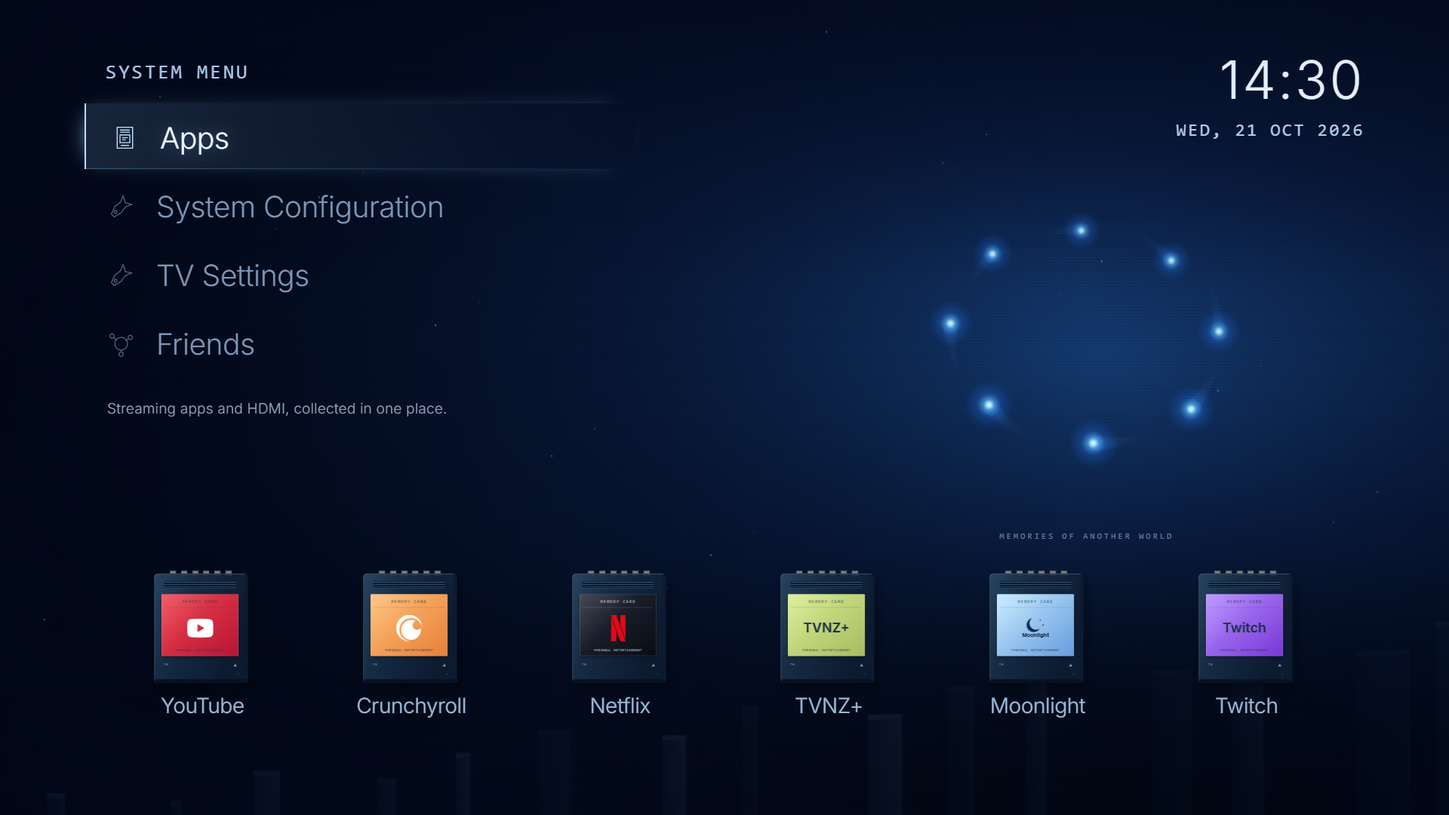
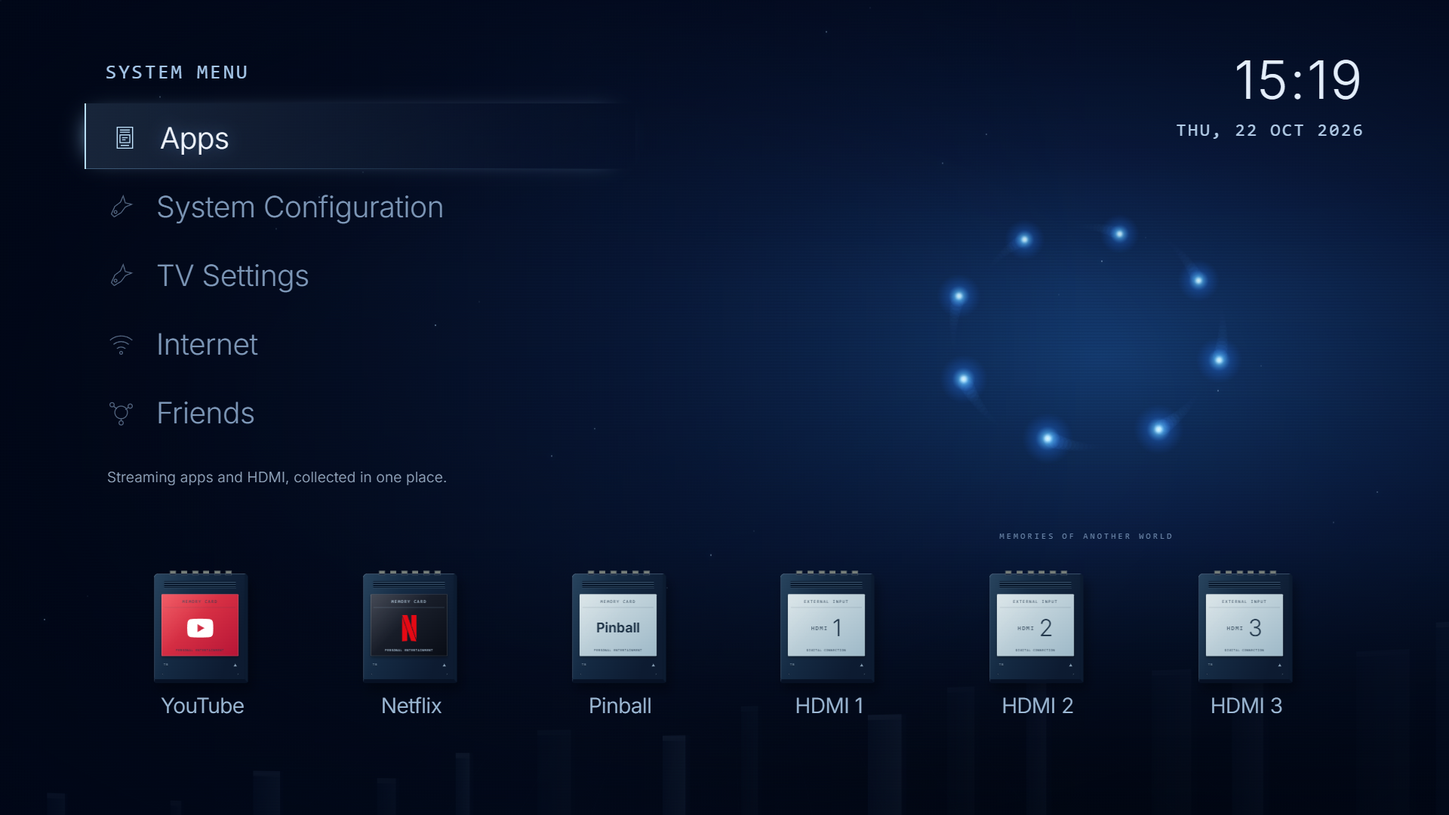
Add Internet settings and publish sanitised TB 0.1.1
Compared with the original public 0.1.0 showcase submission (2202c50):
- Add a remote-navigable Internet page for connection type, network name,
  IP, gateway, subnet mask and DNS, with separate internet reachability.
- Add Refresh, foreground refresh, stale-data clearing and a native LG
  General > Network shortcut with an All Settings fallback.
- Keep the fixed read-only Homebrew fallback behind the existing opt-in;
  no root access occurs from this page by default.
- Add synthetic network tests, a neutral Internet screenshot and a
  changelog identifying what is new versus already present in 0.1.0.

Preserve the separate public app identity, neutral media, startup audio
off by default and empty per-user settings. Exclude real network/account
details, credentials, owner artwork/recordings, TV setup exports and
root/debloat or device-specific startup scripts.

Validation: npm test, build and packaging; 18 isolated browser checks;
known-private-data/credential scan of 91 repository files plus build/IPK
contents (123 file payloads total), with no findings. The matching
personal implementation is TV-tested; this public identity remains
PC-tested only.

diff --git a/src/screens/RetroHome.tsx b/src/screens/RetroHome.tsx
@@ -14,18 +14,19 @@ import wallpaper from '../assets/wallpaper.svg';
 import {GbaBootScene} from '../components/GbaBootScene';
 import {STARTUP_DURATION,startupGreeting} from '../lib/startup';
 import {PictureSettings} from './PictureSettings';
+import {NetworkSettings} from './NetworkSettings';
 import {readLaunchIntent} from '../lib/launch-intent';
 import {type PictureContext} from '../lib/picture';
 import {launchApp} from '../lib/launch';
 
 interface Props {rows:HomeRow[]; collections:SettingsTab[]; loading:boolean; onRefreshApps:()=>Promise<void>; discovery:boolean; onDiscovery:()=>void; onActivate:(row:string,item:TileModel)=>Promise<void>; onToggle:(tab:string,id:string)=>void; onReorder:(tab:string,ids:string[])=>void;}
-type Page='menu'|'browser'|'config'|'friends'|'collection'|'picture';
+type Page='menu'|'browser'|'config'|'friends'|'collection'|'picture'|'network';
 type Form='wallpaper'|'steam'|null;
 type Entry={row:string;item:TileModel};
-const MENUS=['Apps','System Configuration','TV Settings','Friends'];
-const PAGES:Page[]=['browser','config','picture','friends'];
+const MENUS=['Apps','System Configuration','TV Settings','Internet','Friends'];
+const PAGES:Page[]=['browser','config','picture','network','friends'];
 const BACKGROUNDS:RetroPreferences['background'][]=['frieren','blue','custom'];
-const BACKGROUND_NAMES={frieren:'Frieren · dusk',blue:'Classic blue',custom:'Custom image'};
+const BACKGROUND_NAMES={frieren:'Blue horizon',blue:'Classic blue',custom:'Custom image'};
 const pad=(n:number)=>String(n).padStart(2,'0');
 const SETTINGS=[
   ['Background','Choose your atmosphere','The bundled blue horizon, the classic blue void, or an image of your own.'],
@@ -197,7 +198,7 @@ export function Home ({rows,collections,loading,onRefreshApps,discovery,onDiscov
   handler.current=(event:KeyboardEvent)=>{
     const code=event.keyCode;
     if(idle){touch();event.preventDefault();event.stopImmediatePropagation();return;}
-    if(page==='picture')return;
+    if(page==='picture'||page==='network')return;
     if(![13,27,37,38,39,40,461].includes(code))return;
     touch();
     if(page==='collection')return;
@@ -254,7 +255,7 @@ export function Home ({rows,collections,loading,onRefreshApps,discovery,onDiscov
   useEffect(()=>{const key=(event:KeyboardEvent)=>handler.current(event);addEventListener('keydown',key,true);return()=>removeEventListener('keydown',key,true);},[]);
 
   const values=[BACKGROUND_NAMES[prefs.background],`${prefs.fade}%`,prefs.scanlines?'On':'Off',prefs.sound?'On':'Off',prefs.boot?'On':'Off',prefs.startupSound?(prefs.startupVoice==='gba'?'Game Boy Advance':'PlayStation 2'):'Off',`${prefs.startupVolume}%`,prefs.idle?'After 2 minutes':'Off',prefs.wallpaper?'Change image':'Add image address','Choose & arrange',prefs.steamUrl?'Relay configured':'Not connected','Open original menu'];
-  const menuDescription=['Streaming apps and HDMI, collected in one place.','Set the atmosphere. Make yourself at home.','Brightness, contrast and colour, saved to your TV.','See who’s online before the next adventure.'];
+  const menuDescription=['Streaming apps and HDMI, collected in one place.','Set the atmosphere. Make yourself at home.','Brightness, contrast and colour, saved to your TV.','Your IP address, connection details and Wi-Fi setup.','See who’s online before the next adventure.'];
   const orbitActive=visible&&!idle&&!booting&&!guide&&!form&&!launching?.error;
   const title=(eyebrow:string,label:string)=><div class="ps-page-heading"><div><span class="ps-sr-only">{eyebrow}</span><h1>{label}</h1></div></div>;
 
@@ -263,7 +264,7 @@ export function Home ({rows,collections,loading,onRefreshApps,discovery,onDiscov
       <Atmosphere image={image} fade={prefs.fade} imageFailed={imageFailed}/>
       <header class="ps-header ps-interface" aria-hidden={idle||!!form||guide||!!launching?.error} {...(idle||!!form||guide||!!launching?.error?{inert:true}:{})}><div class="ps-clock"><strong>{clock}</strong><span>{date}</span></div></header>
       <div class="ps-interface ps-page-shell" key={page} aria-hidden={idle||!!form||guide||!!launching?.error} {...(idle||!!form||guide||!!launching?.error?{inert:true}:{})}>
-        {page==='menu'?<section class="ps-main ps-page-enter"><div class="ps-menu-panel"><span class="ps-eyebrow">SYSTEM MENU</span><h1 class="ps-sr-only">Main menu</h1><nav aria-label="Main menu"><div class={`ps-menu-focus ${menuZone==='quick'?'is-muted':''}`} style={{transform:`translateY(${menu*91}px)`}}/>{MENUS.map((label,index)=><button class={`ps-menu-item ${menu===index&&menuZone==='main'?'is-focused':''}`} aria-current={menu===index&&menuZone==='main'?'page':undefined} onMouseMove={()=>{setMenu(index);setMenuZone('main');}} onClick={()=>{setMenu(index);setMenuZone('main');enter(PAGES[index]);}}><MenuSymbol name={(['browser','config','config','friends'] as const)[index]}/><span>{label}</span></button>)}</nav><p key={menu} class="ps-menu-detail">{menuDescription[menu]}</p></div>
+        {page==='menu'?<section class="ps-main ps-page-enter"><div class="ps-menu-panel"><span class="ps-eyebrow">SYSTEM MENU</span><h1 class="ps-sr-only">Main menu</h1><nav aria-label="Main menu"><div class={`ps-menu-focus ${menuZone==='quick'?'is-muted':''}`} style={{transform:`translateY(${menu*91}px)`}}/>{MENUS.map((label,index)=><button class={`ps-menu-item ${menu===index&&menuZone==='main'?'is-focused':''}`} aria-current={menu===index&&menuZone==='main'?'page':undefined} onMouseMove={()=>{setMenu(index);setMenuZone('main');}} onClick={()=>{setMenu(index);setMenuZone('main');enter(PAGES[index]);}}><MenuSymbol name={(['browser','config','config','network','friends'] as const)[index]}/><span>{label}</span></button>)}</nav><p key={menu} class="ps-menu-detail">{menuDescription[menu]}</p></div>
           <div class="ps-menu-orbit"><CrystalOrbit angle={crystalAngle} large active={orbitActive}/><span>MEMORIES OF ANOTHER WORLD</span></div>
           <div class="ps-quick"><div class="ps-quick-row">{quickItems.map((entry,i)=><button key={entry.item.key} class={`ps-quick-item ${menuZone==='quick'&&quick===i?'is-focused':''} ${launching?.entry.item.key===entry.item.key?'is-opening':''}`} aria-label={`Open ${entry.item.label}`} onMouseMove={()=>{setMenuZone('quick');setQuick(i);}} onClick={()=>{setQuick(i);setMenuZone('quick');void launch(entry);}}><div class="ps-quick-card"><MemoryCard item={entry.item} input={entry.row==='sources'} mini/></div><span>{entry.item.label}</span></button>)}</div>{!quickItems.length&&<p class="ps-quick-empty">{loading?'Reading your applications…':'Add apps or HDMI inputs in System Configuration, under Apps & inputs.'}</p>}</div>
         </section>:page==='browser'?<section class="ps-content ps-page-enter">{title('SYSTEM / APPS','Apps')}<div class="ps-filter-rail" role="tablist" aria-label="Apps collection">{['All items','Applications','HDMI inputs'].map((label,i)=><button role="tab" aria-selected={filter===i} class={`${filter===i?'is-active':''} ${browserZone==='tabs'&&tabFocus===i?'is-focused':''}`} onMouseMove={()=>{setBrowserZone('tabs');setTabFocus(i);}} onClick={()=>filterTo(i)}>{label}<small>{i===0?allItems.length:allItems.filter(e=>e.row===(i===1?'apps':'sources')).length}</small></button>)}</div>
@@ -271,7 +272,7 @@ export function Home ({rows,collections,loading,onRefreshApps,discovery,onDiscov
           <div class="ps-memory-grid" aria-label="Apps and HDMI inputs">{items.slice(start,start+8).map((entry,i)=>{const index=start+i;return <button key={entry.item.key} class={`ps-memory-item ${card===index&&browserZone==='cards'?'is-focused':''} ${launching?.entry.item.key===entry.item.key?'is-opening':''}`} aria-label={entry.item.label} aria-current={card===index&&browserZone==='cards'?'true':undefined} onMouseMove={()=>{setCard(index);setBrowserZone('cards');}} onClick={()=>{setCard(index);setBrowserZone('cards');void launch(entry);}}><div class="ps-card-platform"/><MemoryCard item={entry.item} input={entry.row==='sources'}/><span class="ps-card-title">{entry.item.label}</span><small class="ps-card-index">{entry.row==='sources'?(entry.item.connected?'DEVICE CONNECTED':'NO DEVICE DETECTED'):''}</small></button>;})}</div>
           {!items.length&&<div class="ps-empty-browser"><MenuSymbol name="browser"/><h2>{loading?'Reading your collection…':'A little room for something new.'}</h2><p>Add apps and inputs in System Configuration.</p><button class="ps-action is-focused" onClick={()=>enter('collection')}>Manage collection</button></div>}{items.length>8&&<div class="ps-pagination">COLLECTION {Math.floor(card/8)+1} / {Math.ceil(items.length/8)}</div>}
         </section>:page==='config'?<section class="ps-content ps-page-enter">{title('SYSTEM / PREFERENCES','System Configuration')}<div class="ps-settings-panel"><div class="ps-settings-list">{SETTINGS.map(([label],i)=><button class={`ps-setting ${setting===i?'is-focused':''}`} aria-label={`${label}: ${values[i]}`} onMouseMove={()=>setSetting(i)} onClick={()=>{setSetting(i);configure(i);}}><span>{label}</span><b>{values[i]}</b></button>)}</div><aside class="ps-setting-detail" key={setting}><span class="ps-eyebrow">{setting<3?'APPEARANCE':setting<8?'EXPERIENCE':'SYSTEM'}</span><h2>{SETTINGS[setting][1]}</h2><p>{SETTINGS[setting][2]}</p>{setting===1?<div class="ps-fade-meter"><input type="range" min="0" max="85" step="5" value={prefs.fade} aria-label="Image fade" onClick={event=>event.stopPropagation()} onInput={event=>{touch();update({fade:Number(event.currentTarget.value)});}}/><span>{prefs.fade}% FADE</span></div>:setting===6?<div class="ps-fade-meter"><input type="range" min="0" max="100" step="5" value={prefs.startupVolume} aria-label="Startup volume" onClick={event=>event.stopPropagation()} onInput={event=>{touch();update({startupVolume:Number(event.currentTarget.value)});}}/><span>{prefs.startupVolume}%</span></div>:setting===0||setting===8?<div class={`ps-theme-preview ${prefs.background==='blue'?'is-blue':''}`} style={image&&!imageFailed?{backgroundImage:`linear-gradient(90deg,#05112c88,#05112c44),url(${JSON.stringify(image)})`}:undefined}><CrystalOrbit active={orbitActive}/><span>{BACKGROUND_NAMES[prefs.background]}</span></div>:<div class="ps-setting-symbol"><MenuSymbol name={setting===10?'friends':setting===11?'home':'config'}/></div>}{imageFailed&&(setting===0||setting===8)&&<p class="ps-error-text">Image unavailable. Classic blue is shown until it loads.</p>}</aside></div></section>
-        :page==='picture'?<PictureSettings context={pictureContext} onBack={returnFromPicture} onActivity={touch}/>:page==='collection'?<CollectionEditor discovery={discovery} onDiscovery={onDiscovery} tabs={collections} sound={prefs.sound} loading={loading} onRefresh={onRefreshApps} onToggle={onToggle} onReorder={onReorder} onClose={()=>setPage(collectionReturn)}/>
+        :page==='network'?<NetworkSettings allowHomebrew={discovery} onBack={()=>{touch();setPage('menu');setMenuZone('main');}} onActivity={touch}/>:page==='picture'?<PictureSettings context={pictureContext} onBack={returnFromPicture} onActivity={touch}/>:page==='collection'?<CollectionEditor discovery={discovery} onDiscovery={onDiscovery} tabs={collections} sound={prefs.sound} loading={loading} onRefresh={onRefreshApps} onToggle={onToggle} onReorder={onReorder} onClose={()=>setPage(collectionReturn)}/>
         :<section class="ps-content ps-page-enter">{title('SYSTEM / FRIENDS','Friends')}{!prefs.steamUrl?<div class="ps-friends-empty"><div class="ps-friends-orbit"><CrystalOrbit active={orbitActive}/></div><div><span class="ps-eyebrow">STEAM / NOT CONNECTED</span><h2>A good adventure.<br/>Even better company.</h2><p>See who’s online and what they’re playing.<br/>Connect the optional PC relay to get started.</p><button class="ps-action is-focused" onClick={()=>openForm('steam')}>Connect Steam</button><small>ACCOUNT SETUP IS STILL NEEDED</small></div></div>:<><div class="ps-friends-toolbar"><div><span><i class={steamState?'is-stale':''}/>{snapshot?`${snapshot.profile} · ${online.length} online`:'Steam relay'}</span><small role="status">{steamState||(snapshot?`Updated ${new Date(snapshot.updatedAt).toLocaleTimeString([],{hour:'2-digit',minute:'2-digit'})} · refreshes every minute`:'Connecting…')}</small></div><button onClick={()=>setRefresh(old=>old+1)}>Refresh</button><button class="ps-action" onClick={()=>openForm('steam')}>Connection settings</button></div><div class="ps-friends-grid">{snapshot?.friends.slice(friendPage*6,friendPage*6+6).map(friend=><article key={friend.id} class={`ps-friend ${friend.state!=='Offline'?'is-online':''}`}><div class="ps-friend-avatar">{friend.name.charAt(0).toUpperCase()}</div><div><h2>{friend.name}</h2><p>{friend.game||friend.state}</p></div><i/></article>)}</div>{!snapshot&&<p class="ps-empty">{steamState||'Connecting…'}</p>}{snapshot&&!snapshot.friends.length&&<p class="ps-empty">No friends returned. Check your Steam friends-list privacy settings.</p>}{snapshot&&snapshot.friends.length>6&&<div class="ps-friend-pages"><button onClick={()=>setFriendPage(old=>Math.max(0,old-1))}>Previous</button><span>{friendPage+1} / {Math.ceil(snapshot.friends.length/6)}</span><button onClick={()=>setFriendPage(old=>Math.min(Math.ceil(snapshot.friends.length/6)-1,old+1))}>Next</button></div>}</>}</section>}
       </div>
       {idle&&<div class="ps-idle-view"><div class="ps-idle-shade" aria-hidden="true"/><div class="ps-idle-lights"><CrystalOrbit angle={crystalAngle} ambient active={visible&&idle}/></div><div class="ps-idle-caption"><div class="ps-idle-caption-drift"><strong>{clock}</strong><small>PRESS ANY BUTTON TO WAKE</small></div></div></div>}

diff --git a/src/screens/NetworkSettings.tsx b/src/screens/NetworkSettings.tsx
@@ -1,0 +1,24 @@
+import {useEffect,useRef,useState} from 'preact/hooks';
+import {readNetwork,openNetworkSettings,type NetworkSnapshot} from '../lib/network';
+import {isWebOS} from '../lib/luna';
+
+interface Props{allowHomebrew:boolean;onBack:()=>void;onActivity:()=>void;}
+export function NetworkSettings({allowHomebrew,onBack,onActivity}:Props){
+  const [snapshot,setSnapshot]=useState<NetworkSnapshot|null>(null),[loading,setLoading]=useState(true),[opening,setOpening]=useState(false),[error,setError]=useState(''),[focus,setFocus]=useState(0);
+  const alive=useRef(true),pending=useRef(false),launching=useRef(false),keys=useRef<(e:KeyboardEvent)=>void>(()=>undefined);
+  const load=async()=>{if(pending.current||!alive.current)return;pending.current=true;setLoading(true);setError('');try{const next=await readNetwork(allowHomebrew);if(alive.current)setSnapshot(next);}catch(e){if(alive.current){setSnapshot(null);setError(e instanceof Error?e.message:'Could not read the connection.');}}finally{pending.current=false;if(alive.current)setLoading(false);}};
+  useEffect(()=>{alive.current=true;void load();const visible=()=>{if(!document.hidden)void load();};const timer=window.setInterval(visible,30000);document.addEventListener('visibilitychange',visible);window.addEventListener('focus',visible);return()=>{alive.current=false;clearInterval(timer);document.removeEventListener('visibilitychange',visible);window.removeEventListener('focus',visible);};},[allowHomebrew]);
+  const open=async()=>{onActivity();if(launching.current)return;if(!isWebOS()){setError('Wi-Fi setup opens on the TV. This PC preview shows sample connection details.');return;}launching.current=true;setOpening(true);setError('');try{await openNetworkSettings();}catch{if(alive.current)setError('Could not open LG network settings. Try again.');}finally{launching.current=false;if(alive.current)setOpening(false);}};
+  keys.current=e=>{if(![13,27,37,38,39,40,461].includes(e.keyCode))return;e.preventDefault();e.stopImmediatePropagation();onActivity();if(e.keyCode===27||e.keyCode===461){onBack();return;}if(e.keyCode===37||e.keyCode===38)setFocus(0);else if(e.keyCode===39||e.keyCode===40)setFocus(1);else if(e.keyCode===13&&!e.repeat){if(focus===0)void open();else void load();}};
+  useEffect(()=>{const handle=(e:KeyboardEvent)=>keys.current(e);addEventListener('keydown',handle);return()=>removeEventListener('keydown',handle);},[]);
+  const details=[['Connection',snapshot?.kind],['Network',snapshot?.name],['TV IP address',snapshot?.ip],['Gateway',snapshot?.gateway],['Subnet mask',snapshot?.netmask],['DNS',snapshot?.dns]];
+  return <section class="ps-content ps-page-enter ps-network-page">
+    <div class="ps-page-heading"><h1>Internet</h1></div>
+    <div class="ps-network-panel" aria-busy={loading||opening}>
+      <div class="ps-network-main"><div class="ps-network-status"><i class={snapshot?.internet==='Connected'?'is-online':''}/><span>{loading?'Checking connection…':snapshot?.internet==='Connected'?'Connected to the internet':snapshot?.internet==='No internet'?'No internet connection':snapshot?'Internet status unknown':'Connection unavailable'}</span></div>
+        <dl>{details.map(([label,value])=><div class={label==='TV IP address'?'is-address':''}><dt>{label}</dt><dd>{loading&&!snapshot?'…':value||'—'}</dd></div>)}</dl>
+        <div class="ps-network-actions"><button class={`ps-action ${focus===0?'is-focused':''}`} disabled={opening} onMouseMove={()=>setFocus(0)} onClick={()=>void open()}>Wi-Fi & network settings</button><button class={`ps-action ${focus===1?'is-focused':''}`} disabled={loading} onMouseMove={()=>setFocus(1)} onClick={()=>{onActivity();void load();}}>Refresh</button></div>
+      </div><aside class="ps-network-detail"><span class="ps-eyebrow">YOUR CONNECTION</span><h2>Stay connected.</h2><p>Choose a Wi-Fi network, enter its password or change connection settings in LG’s network menu.</p><p>Your TV’s current address appears here and refreshes when you return.</p>{!isWebOS()&&<p class="ps-network-preview">PC preview · sample details</p>}<p class="ps-network-error" role="status">{error}</p></aside>
+    </div>
+  </section>;
+}

diff --git a/src/lib/network.ts b/src/lib/network.ts
@@ -1,0 +1,29 @@
+import {isWebOS,lunaCall,type LunaResponse} from './luna';
+import {LUNA} from '../config/constants';
+import {launchApp} from './launch';
+
+interface Connection {state?:string;ipAddress?:string;ssid?:string;gateway?:string;netmask?:string;dns1?:string;dns2?:string;onInternet?:string;}
+interface Status extends LunaResponse {isInternetConnectionAvailable?:boolean;wifi?:Connection;wired?:Connection;}
+export interface NetworkSnapshot {kind:'Wi-Fi'|'Ethernet'|'Disconnected';name:string;ip:string;gateway:string;netmask:string;dns:string;internet:'Connected'|'No internet'|'Unknown';}
+const connected=(c?:Connection)=>!!c&&['connected','online','ready'].includes(c.state||'');
+export function networkSnapshot(status:Status):NetworkSnapshot {
+  if(!status||status.returnValue!==true||(!status.wifi&&!status.wired))throw Error('The TV did not return connection details.');
+  const wired=connected(status.wired),wifi=connected(status.wifi),connection=wired?status.wired:wifi?status.wifi:undefined;
+  return {kind:wired?'Ethernet':wifi?'Wi-Fi':'Disconnected',name:wired?'Wired connection':wifi?(status.wifi?.ssid||'Wireless network'):'No network connected',ip:connection?.ipAddress||'Not assigned',gateway:connection?.gateway||'—',netmask:connection?.netmask||'—',dns:[connection?.dns1,connection?.dns2].filter(Boolean).join(' · ')||'—',internet:!connection?'No internet':status.isInternetConnectionAvailable===true?'Connected':status.isInternetConnectionAvailable===false?'No internet':'Unknown'};
+}
+export async function readNetwork(allowHomebrew=false):Promise<NetworkSnapshot>{
+  if(!isWebOS())return networkSnapshot({returnValue:true,isInternetConnectionAvailable:true,wifi:{state:'connected',ssid:'Home Wi-Fi (preview)',ipAddress:'192.0.2.20',gateway:'192.0.2.1',netmask:'255.255.255.0',dns1:'192.0.2.1'}});
+  try{return networkSnapshot(await lunaCall<Status>('luna://com.webos.service.connectionmanager/getStatus',{}));}
+  catch{
+    if(!allowHomebrew)throw Error('Connection details are unavailable. Open Wi-Fi & network settings, or enable Homebrew in Apps & inputs on a rooted TV.');
+    // Fixed read-only command: no network names, passwords or user values enter a shell.
+    try{const result=await lunaCall<LunaResponse&{stdoutString?:string}>(LUNA.homebrewExec,{command:"luna-send -n 1 -w 5000 luna://com.webos.service.connectionmanager/getStatus '{}'"},8000);return networkSnapshot(JSON.parse(result.stdoutString||''));}
+    catch{throw Error('Connection details are unavailable. Try Refresh or open Wi-Fi & network settings.');}
+  }
+}
+/** Route checked on an LG C2 running webOS 24; other firmware may differ. LG handles network selection and passwords. */
+export async function openNetworkSettings():Promise<void>{
+  if(!isWebOS())return;
+  try{await launchApp('com.palm.app.settings',{target:'general',item:'network'});}
+  catch{await launchApp('com.palm.app.settings');}
+}

diff --git a/src/theme/network.css b/src/theme/network.css
@@ -1,0 +1,12 @@
+.ps-network-panel{display:flex;min-height:590px;background:linear-gradient(120deg,#11294588,#071429aa);border:1px solid #759bb94d;}
+.ps-network-main{width:1070px;flex-shrink:0;padding:32px 38px;box-sizing:border-box;}
+.ps-network-status{display:flex;align-items:center;gap:15px;font-size:27px;color:#c7d9e9;margin-bottom:26px;}
+.ps-network-status>i{width:10px;height:10px;flex-shrink:0;border-radius:50%;background:#9c967d;}
+.ps-network-status>i.is-online{background:#a2dbbd;box-shadow:0 0 16px #8ce6b344;}
+.ps-network-main dl{margin:0 0 26px;}.ps-network-main dl>div{display:flex;align-items:center;min-height:58px;border-bottom:1px solid #7093b22b;gap:25px;}
+.ps-network-main dt{width:240px;flex-shrink:0;font-size:25px;color:#9fb7d1;}
+.ps-network-main dd{margin:0;font-size:29px;color:#e1efff;overflow-wrap:anywhere;min-width:0;line-height:1.35;}
+.ps-network-main .is-address{min-height:78px;}.ps-network-main .is-address dd{font-size:43px;letter-spacing:1px;font-variant-numeric:tabular-nums;}
+.ps-network-actions{display:flex;align-items:center;gap:23px;}.ps-network-actions>button{font-size:26px!important;white-space:nowrap;}.ps-network-actions>button:disabled{opacity:.45;}
+.ps-network-detail{padding:36px 38px;border-left:1px solid #7292b04d;min-width:0;flex:1;}.ps-network-detail h2{font-size:36px;font-weight:300;line-height:1.3;margin:25px 0;}.ps-network-detail p{font-size:24px;line-height:1.6;color:#9db7d2;margin:0 0 23px;}
+.ps-network-detail .ps-network-error{color:#edb9ac;font-size:22px;}.ps-network-detail .ps-network-preview{font-size:20px;color:#9db7d2;}

diff --git a/src/components/MemoryCard.tsx b/src/components/MemoryCard.tsx
@@ -11,10 +11,11 @@ const LABELS: Record<string, string> = {
   'tv.twitch.tv.starshot.lg': 'linear-gradient(140deg,#b58aff,#7739d7)'
 };
 
-export function MenuSymbol ({name}: {name: 'browser' | 'config' | 'friends' | 'home'}) {
+export function MenuSymbol ({name}: {name: 'browser' | 'config' | 'friends' | 'home' | 'network'}) {
   return <svg class="ps-symbol" viewBox="0 0 40 40" fill="none" stroke="currentColor" stroke-width="1.4" aria-hidden="true">
     {name === 'browser' ? <><path d="M9 5h22v30H9zM13 9h14M13 12h14M13 16h14v11H13zM14 31h12"/><path d="M16 20h8M16 23h5"/></>
       : name === 'config' ? <><path d="m23 5-4 9-8 6-5 11 4 4 10-6 6-8 9-4-9-2z"/><circle cx="12" cy="28" r="2"/></>
+      : name === 'network' ? <><path d="M4 15a24 24 0 0 1 32 0M9 21a17 17 0 0 1 22 0M14 27a9 9 0 0 1 12 0"/><circle cx="20" cy="33" r="2"/></>
       : name === 'friends' ? <><circle cx="20" cy="20" r="9"/><circle cx="7" cy="9" r="3"/><circle cx="33" cy="11" r="3"/><circle cx="20" cy="35" r="3"/><path d="m9 11 5 4m16-2-4 3m-6 13v3"/></>
       : <path d="m5 18 15-12 15 12M10 16v18h20V16M17 34V23h6v11"/>}
   </svg>;

diff --git a/src/main.tsx b/src/main.tsx
@@ -3,6 +3,7 @@ import {App} from './app';
 import {applyTokens} from './theme/tokens';
 import './theme/global.css';
 import './theme/retro.css';
+import './theme/network.css';
 
 applyTokens();
 render(<App />, document.getElementById('root')!);

diff --git a/README.md b/README.md
@@ -16,11 +16,12 @@ Inspired by [Gathin's TV project and @gathint's post](https://github.com/Gathin2
 - A handheld-style morning/afternoon/evening greeting or a tower-and-cloud startup. The rest of the home stays the same when switching startup styles.
 - Independent menu and startup audio settings. **Console recordings are not included; startup audio defaults off.**
 - Optional installed-app discovery and TV picture controls through an existing rooted Homebrew Channel installation.
+- An Internet page with connection status, IP/gateway/DNS and a shortcut to LG's native Wi-Fi/network settings. Network passwords stay in LG's interface.
 - Optional Steam friends through a separately run, authenticated PC relay. No Steam credentials ship in the app.
 
 ## Compatibility and test status
 
-Developed on an **LG OLED48C24LA**, firmware **23.25.55**, **webOS24 / SDK9.2.2**. The personal predecessor was installed and exercised on that TV, including remote navigation, apps/HDMI, Pinball discovery, picture settings and the idle view. This public **0.1.0** copy has a new app ID, neutral media and an explicit discovery switch. It is PC-build/browser tested and **has not yet been installed on the TV**. Other TVs and firmware are unverified.
+Developed on an **LG OLED48C24LA**, firmware **23.25.55**, **webOS24 / SDK9.2.2**. The personal implementation was installed and exercised on that TV, including remote navigation, apps/HDMI, Pinball discovery, picture settings, the idle view and the new live connection page/native Settings shortcut. This public **0.1.1** copy has a separate app ID, neutral media and explicit Homebrew opt-in. It is PC-build/browser tested and **has not yet been installed on the TV**. Other TVs and firmware are unverified. See [what changed since the original showcase submission](CHANGELOG.md).
 
 The bundle targets Chrome79 as a compatibility baseline and uses a classic script for webOS file loading. That does not establish support for every older webOS TV.
 
@@ -35,14 +36,14 @@ npm run build
 npm run package
 ```
 
-The resulting package is `build/com.tb.weboslauncher_0.1.0_all.ipk`. Packaging is separate from installation and does not contact any TV. `npm run dev` previews the app on the PC with mock apps/inputs; picture controls use mock values there.
+The resulting package is `build/com.tb.weboslauncher_0.1.1_all.ipk`. Packaging is separate from installation and does not contact any TV. `npm run dev` previews the app on the PC with mock apps/inputs; picture and Internet controls use sample values there.
 
 ## Install and navigation
 
 Install the built IPK with [webOS Dev Manager](https://github.com/webosbrew/dev-manager-desktop) or LG's CLI and your own paired device profile:
 
 ```sh
-npx ares-install --device YOUR_TV build/com.tb.weboslauncher_0.1.0_all.ipk
+npx ares-install --device YOUR_TV build/com.tb.weboslauncher_0.1.1_all.ipk
 npx ares-launch --device YOUR_TV com.tb.weboslauncher
 ```
 
@@ -57,6 +58,16 @@ The app does **not** automatically replace Home, remap Settings, install root, c
 In Apps & inputs, **Homebrew: Off/On** opts into live installed-app discovery. Enable it only on your own rooted TV with Homebrew Channel. It runs fixed `listLaunchPoints` and validated icon-read commands through that service, retains known artwork and falls back to the catalogue when unavailable. App installation/uninstallation stays outside TB. New discoveries remain hidden until selected. Returning to TB, opening the chooser or selecting Refresh reads the list again.
 
 TV Settings uses Homebrew Channel for bounded, validated picture-setting queries/changes and readback, scoped to the active input/profile. Root access is powerful; this feature is optional, has no remote command endpoint, and is not a substitute for checking settings on your own firmware. Open All LG settings if unavailable. A Settings-button hook is not installed here.
+
+## Internet and Wi-Fi
+
+Open **Internet** to see Wi-Fi/Ethernet status, network name, IP address, gateway, subnet mask and DNS. Refresh reads them again; returning to this page also refreshes its values. An IP address does not necessarily mean the internet is reachable, so both states are shown. Failed reads clear old details.
+
+**Wi-Fi & network settings** opens LG Settings with General → Network selected; press OK to enter its network choices. LG handles choosing a network and entering its password. The route was checked on the development C2; other firmware may behave differently. A failed targeted launch falls back to All LG settings. TB does not read, store or submit network passwords.
+
+Connection details use a read-only local TV API. If that is unavailable, the Homebrew fallback runs only when **Homebrew: On** is enabled in Apps & inputs. Keep it off on an unrooted TV; the native Settings shortcut remains usable without it. Opening the network page does not scan for devices, contact an external IP service or expose a network server.
+
+![Internet page with synthetic connection details, PC preview](docs/internet.png)
 
 ## Startup audio and personal images
 
@@ -76,7 +87,7 @@ Phone mirroring is not implemented in TB. LG AirPlay/Miracast may be used separa
 
 ## Tests and limitations
 
-Local checks cover audio readiness/cancellation/cache, orbit bounds and recent-history ordering. Relay tests use synthetic accounts and API responses. Browser checks exercise the retro menu, startup choices, optional discovery control and picture-page fallback. Screenshots in `docs/` are PC previews, not photographs of a TV. Hardware testing of this public identity/assets remains pending; report your exact model/firmware in [issues](../../issues).
+Local checks cover audio readiness/cancellation/cache, orbit bounds, recent-history ordering and network status parsing, root opt-in and Settings fallback. Relay tests use synthetic accounts and API responses. Browser checks exercise the retro menu, startup choices, optional discovery control, picture-page fallback and Internet navigation/refresh/error states. Screenshots in `docs/` use neutral assets and synthetic state; they are PC previews, not photographs of a TV. Hardware testing of this public identity/assets remains pending; report your exact model/firmware in [issues](../../issues).
 
 The idle design reduces stationary display time, but it is not a guarantee against OLED burn-in. Keep the TV's own panel protections enabled. Root/debloat tools and the experimental power watcher from the personal setup are intentionally not distributed.
 

diff --git a/CHANGELOG.md b/CHANGELOG.md
@@ -1,0 +1,19 @@
+# Changes
+
+## 0.1.1
+
+Compared with the original 0.1.0 showcase submission:
+
+- Add **Internet** to the main menu, showing the current connection type, network name, a larger TV IP address, gateway, subnet mask and DNS.
+- Keep local-network connectivity separate from internet availability, including disconnected and unknown states.
+- Add Refresh and refresh on return/visibility and every 30 seconds while the page is open. Clear old details if a refresh fails.
+- Open LG's native Settings with General → Network selected for Wi-Fi selection and password entry. Fall back to All LG settings if the targeted launch fails.
+- Add D-pad/OK/Back navigation, a network symbol, synthetic network tests and a neutral-background preview.
+- Label the public bundled scene Blue horizon; retain the historical internal preference key for compatibility.
+- Query connection details directly where permitted. The fixed, read-only Homebrew fallback requires the existing **Homebrew: On** opt-in; it stays off by default.
+
+The time-of-day greeting, PS2-style intro option, six recent cards, rendering improvements and separate startup volume were already part of 0.1.0; they are retained rather than presented as new changes here.
+
+The matching personal implementation was exercised on an LG C2 with webOS 24, including the live network readback, Refresh and the native Settings overlay. This public build uses a separate app identity and neutral assets and remains PC-tested only. No Wi-Fi change, password-entry test, public-build hardware installation or reboot test is claimed.
+
+Personal settings, real SSIDs/IPs, credentials, owner screenshots/wallpaper, extracted firmware icons, console recordings, root/debloat scripts and device-specific startup hooks remain excluded. The launcher does not disable microphones, remove apps or alter privacy consent.

diff --git a/SECURITY.md b/SECURITY.md
@@ -1,6 +1,6 @@
 # Security and local development
 
-The app does not expose a network server. Root discovery/picture features use an existing Homebrew Channel root service only after opt-in or an explicit picture-setting action. Do not load untrusted scripts in the app or expose root services/SSH to the internet.
+The app does not expose a network server. Root discovery/picture features use an existing Homebrew Channel root service only after opt-in or an explicit picture-setting action. The Internet page tries a read-only local status API; its fixed Homebrew fallback requires the existing Homebrew opt-in. It does not query passwords, scan devices or call an external IP service. Do not load untrusted scripts in the app or expose root services/SSH to the internet.
 
 The optional Steam relay accepts a bearer token and a fixed friends endpoint. Bind it only to loopback or the intended private interface and restrict its firewall to the TV. Never publish API keys, relay tokens, pairing files or configuration exports.
 
